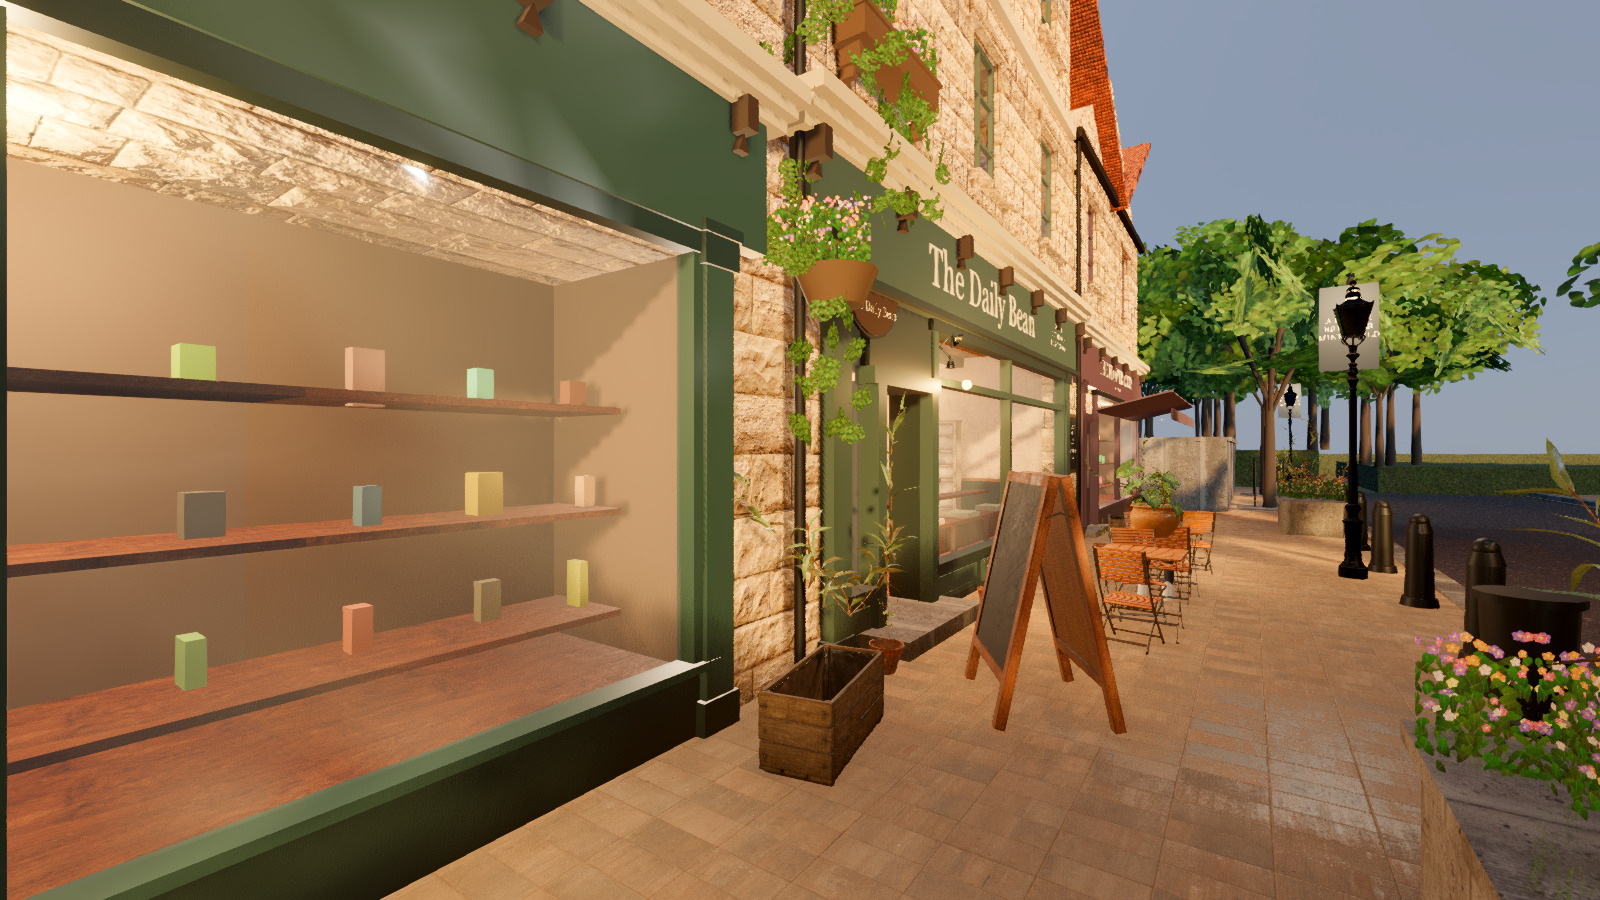
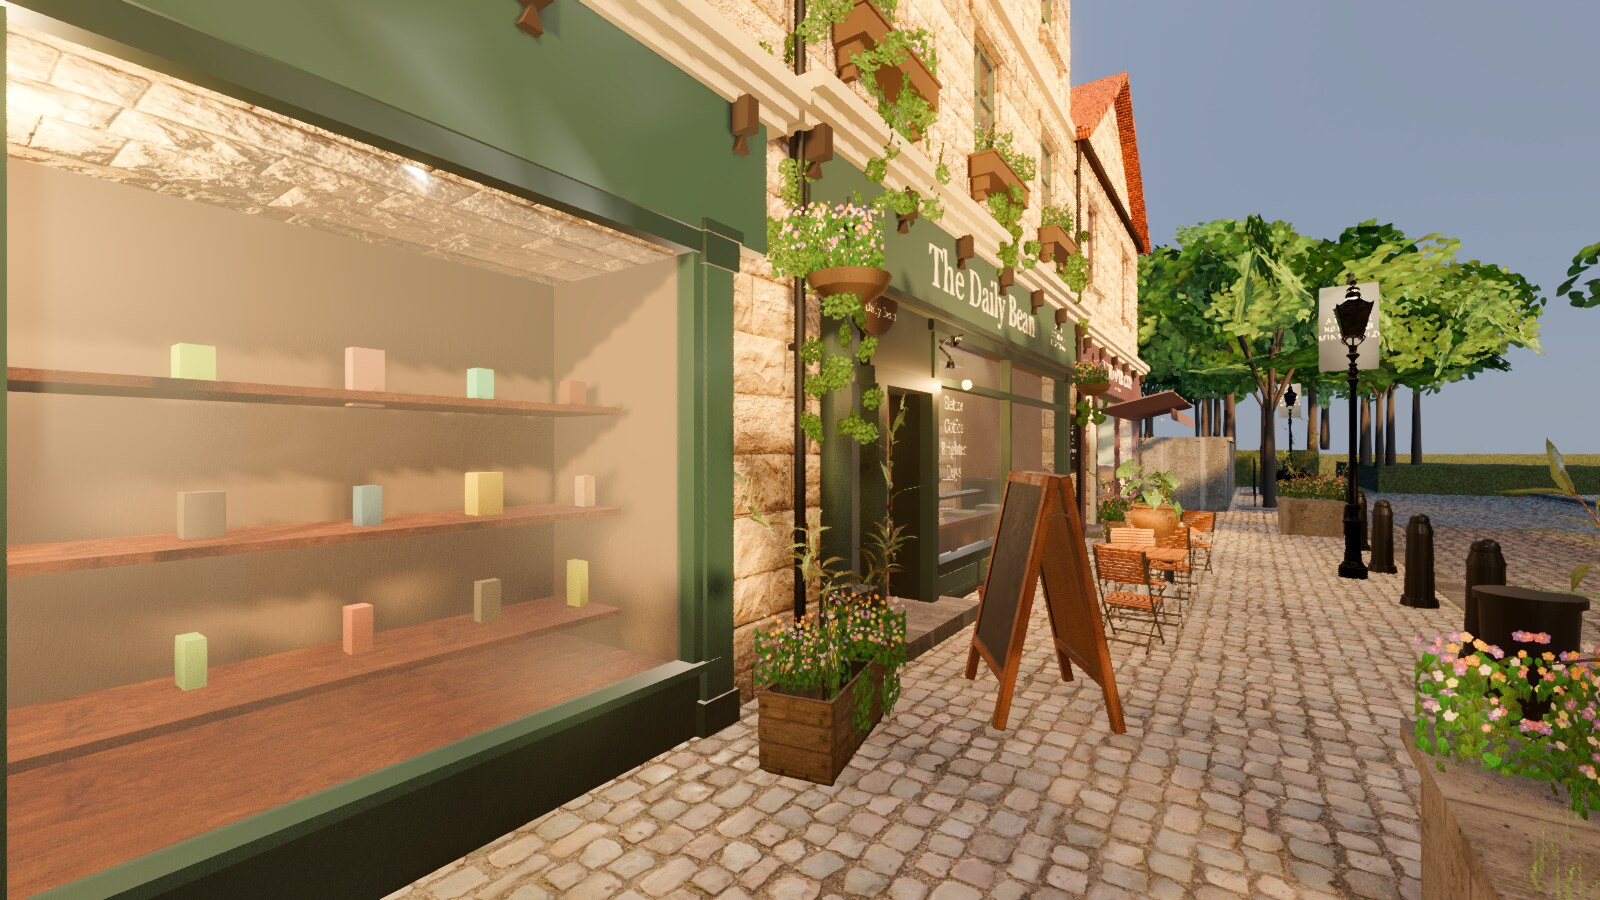
docs: VIS-3D-GODOT-2 preview update -- light, setts, planting, a second shop to enter
A preview under ARC-24, not an acceptance request. Re-captured frames at
1600x900; reference / before / after sheets at 03's and 05's framings; the
second building's door, interior and view out; the measured threshold,
florist walk-in and connected round trip; known misses largest first as
reference facts against candidate facts; three questions.

Records the VISUAL_SLICE.md sec.4 amendment (one second enterable building
now required of every track, so A/B comparability is preserved).

diff --git a/docs/HUMAN_REVIEW_QUEUE.md b/docs/HUMAN_REVIEW_QUEUE.md
@@ -54,7 +54,7 @@ identifies one thing.
 | --- | --- | --- |
 | **VIS-2D-1** | Playable 2D default scene with an enterable interior | 🚧 candidate in progress |
 | **VIS-3D-GODOT-1** | Reference-matched character in Godot | ❌ **failed fidelity gate 2026-09-27** — rebuilding |
-| **VIS-3D-GODOT-2** | Integrated Godot slice: character, street, enterable building, interior, lighting, cameras | 👁 **environment PREVIEW 2026-09-30** — not an acceptance request; see below |
+| **VIS-3D-GODOT-2** | Integrated Godot slice: character, street, enterable building, interior, lighting, cameras | 👁 **environment PREVIEW 2026-09-30, updated 2026-10-06** — not an acceptance request; see below |
 | **VIS-3D-UE5-1** | Unreal slice of equivalent scope | ⏸ **parked** — spike phase one done (`ARC-21`), operator paused the install |
 | **VIS-3D-AB-1** | Godot vs Unreal side-by-side, same reference, same scope | ⏸ parked with `VIS-3D-UE5-1` |
 
@@ -177,6 +177,94 @@ From the operator's first walk. **Still a preview.** Same launch command.
 a second shop enterable. `VISUAL_SLICE.md` §4 lists *a second enterable building* as explicitly out
 of scope, because the Godot and Unreal slices must stay comparable. Should §4 change? Until it
 does, the other doors read as doors and do not open.
+
+#### Preview update, 2026-10-06 — light, setts, planting, a second shop you can enter
+
+**Still a preview, not an acceptance request** (`ARC-24`). It asks: *is this the right direction,
+and what is most wrong now?* The operator judged the café and street "looks good" on 2026-10-01;
+this round works the misses listed above.
+
+**Launch.** Branch `vis/3d-godot-2-environment`, from the repository root, with Godot 4.7 on `PATH`:
+
+```sh
+./mineworld-slice            # walk it: W/S/A/D, mouse, Shift jog, Space jump, V camera
+./mineworld-slice --world    # the same, connected to worlds/social-cafe (needs cargo)
+```
+
+You start on the pavement west of the café. **The second shop you can enter is The Flower Room**,
+the next building east of the café, with the maroon front and the open door at its left end.
+
+**Scope change, recorded.** `VISUAL_SLICE.md` §4 now **requires** one second enterable building
+(new §4.1), on the operator's request that shops be enterable and the standing rule *a smaller
+world with complete interiors over a larger fake town*. The amendment is in the shared target, so a
+resumed Unreal track builds the same second interior and A/B stays like-for-like.
+
+**Frames** — `clients/3d-spike/shots/slice/preview/`, from the running client at 1600×900:
+
+| | Frame |
+| --- | --- |
+| **side by side, reference / before / after** | `sbs_03_cafe_frontage.jpg` (at `03`'s framing), `sbs_05_main_street.jpg` (at `05`'s framing) |
+| through the glass, reference / after | `sbs_03_interior_through_glass.jpg` |
+| the second building | `10_second_building_door.jpg` (from the pavement, the café beside it), `10b_second_building_interior.jpg`, `10c_second_building_looking_out.jpg` |
+| re-captured | `01`–`08` as before |
+
+**What changed, as facts against the references.**
+
+| | Reference | Before (2026-10-01) | Now |
+| --- | --- | --- | --- |
+| sun on the frontage | `03`: low sun raking across the shopfront, hard shadows | even soft light, no cast-shadow pattern | the beam meets the café façade at 39°; the cornice, lamp brackets, hanging sign and baskets cast hard shadows onto the fascia and masonry |
+| the room through the glass | `03`: dim amber, darker than the street, dark timber shelving to the ceiling | pale, evenly lit plaster; brighter than the pavement (0.34 against 0.24) | dark timber shelving floor to ceiling on the west wall, the wall `03`'s framing sees; browner plaster, darker ceiling and floor; at the door the room is darker than the street (0.116 against 0.175) |
+| paving | `03`/`05`: grey-buff setts, dark joints; `05`'s road is setts too | warm beige oblong slabs, joints invisible at `03`'s framing; asphalt road | grey granite setts with soil joints, ~0.18 m courses, on both pavements and the carriageway |
+| planting | `03`: two hanging baskets, ivy on the pier, a flowering planter box | one basket, one climber, one potted plant | two baskets (a large one on the right pier above the slate board), ivy on both piers, window boxes under all three first-floor windows, flowering planter boxes |
+| window lettering | `03`: crisp cream upright serif, centred | thin white script, barely legible | cream serif, centred, opaque; all four words read at 1600×900 |
+| rug | — | one flat colour | a woven flat-weave pattern, generated in-engine |
+| roofs | — | — | **a defect found and fixed:** every pitched roof had its ridge tile turned front-to-back, a dark bar over Maple & Co. at `05`'s framing |
+
+**Measured** (`--threshold`, `--drive`, `--world --link`):
+
+```text
+café threshold    pavement 0.175 -> doorway 0.116 -> 2 m in 0.109 -> deep 0.195; worst step x1.79 (limit x3)
+florist threshold outside 0.188 -> doorway 0.274 -> 2 m in 0.332 -> deep 0.373; worst step x1.46
+                  both: looking out through the glass 0.00 % clipped
+florist walk      in through the door on foot, a loop round the room closing within 0.12 m, out again
+connected         café -> street -> café through the door on foot, with S6's `move`:
+                  50 moves, 50 accepted, 0 refused, through walking, jogging and two jumps
+```
+
+**Known misses, largest first, as facts.**
+
+1. **Through `03`'s glass the pendants glow and a barista stands at a loaded pastry case by the
+   window.** Through the candidate's, the pendants read as grey metal shades with no visible bulb
+   at this distance, nobody stands behind the counter, and the pastry case is at the back, about
+   10 m from the glass. A pale haze band lies across the lower half of the pane.
+2. **Bistro furniture.** `03`: black metal frames with dark, weathered slats. Candidate: bright
+   honey-orange slats, the most saturated object in the frame.
+3. **Sky.** `03` and `05`: saturated blue with white cumulus. Candidate: pale grey-blue, cloudless.
+4. **Fascia contrast.** `03`: cream lettering on a deep green board, high contrast. Candidate: in
+   full sun, the board washes to a light sage and "The Daily Bean" loses contrast.
+5. **Setts size.** `03`'s setts are larger and squarer, about 0.25–0.30 m, with tight light joints.
+   The candidate's are about 0.18 m, rounder, with dark soil joints, a cobbled rather than paved
+   look.
+6. **Shadow on the paving.** `03` has a strong dappled tree shadow across the pavement in front of
+   the café. The candidate's pavement there is in unbroken sun.
+7. **`05`'s massing is not this street's.** `05` has a corner café with a chamfered angle and an
+   awning on a 3–5-storey brick street. The candidate has a straight terrace of 2–3-storey
+   limestone and render. That was the accepted direction; it is stated so it is not mistaken for
+   something this round changed.
+8. **A-board scale** is unchanged: 1.51 m against §3.4's 0.90–1.15 m.
+9. **The florist is brighter than the street** (0.37 deep inside against 0.19 outside). That is by
+   design, a florist's cool daylight, but it is the opposite of the café's relationship.
+10. **Connected only:** the World Pack's café is the mirror of the slice's, with its door east of
+    its people. With the doorway aligned, `alice` and `bob` are drawn just west of the café wall.
+    Recorded for a World Pack decision (`pr-01a-slice.md` §7b).
+
+**Questions for the operator.**
+
+1. Does The Flower Room read as a shop you can walk into from the pavement, and is its interior
+   complete enough to keep?
+2. Is the room through the café glass now dark and warm enough? Should the next round put a
+   barista and a pastry case at the window, as `03` does?
+3. Of the misses above, which comes first: the glass (1), the furniture colour (2), or the sky (3)?
 
 ### What a review package contains (`ARC-20`)
 
